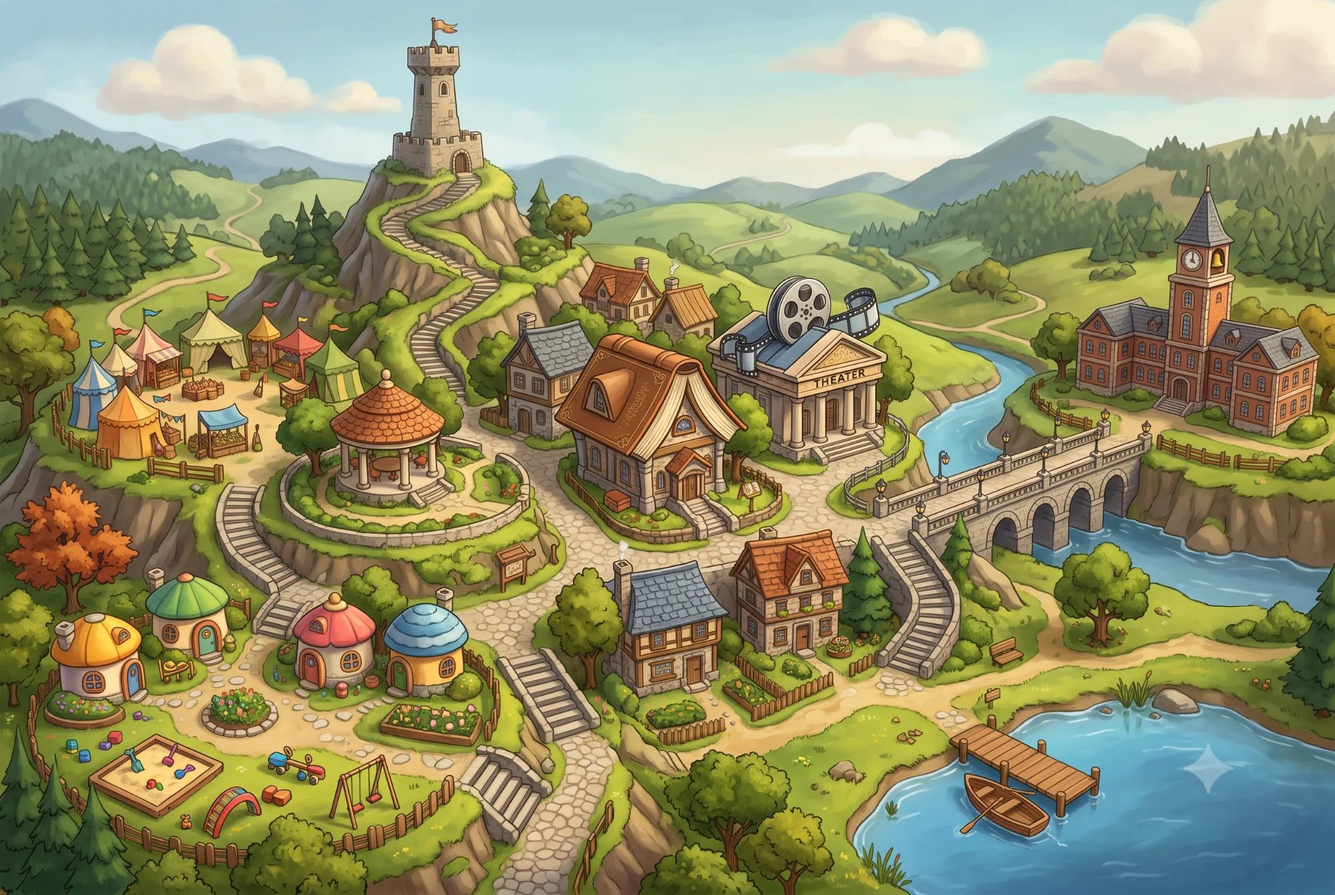
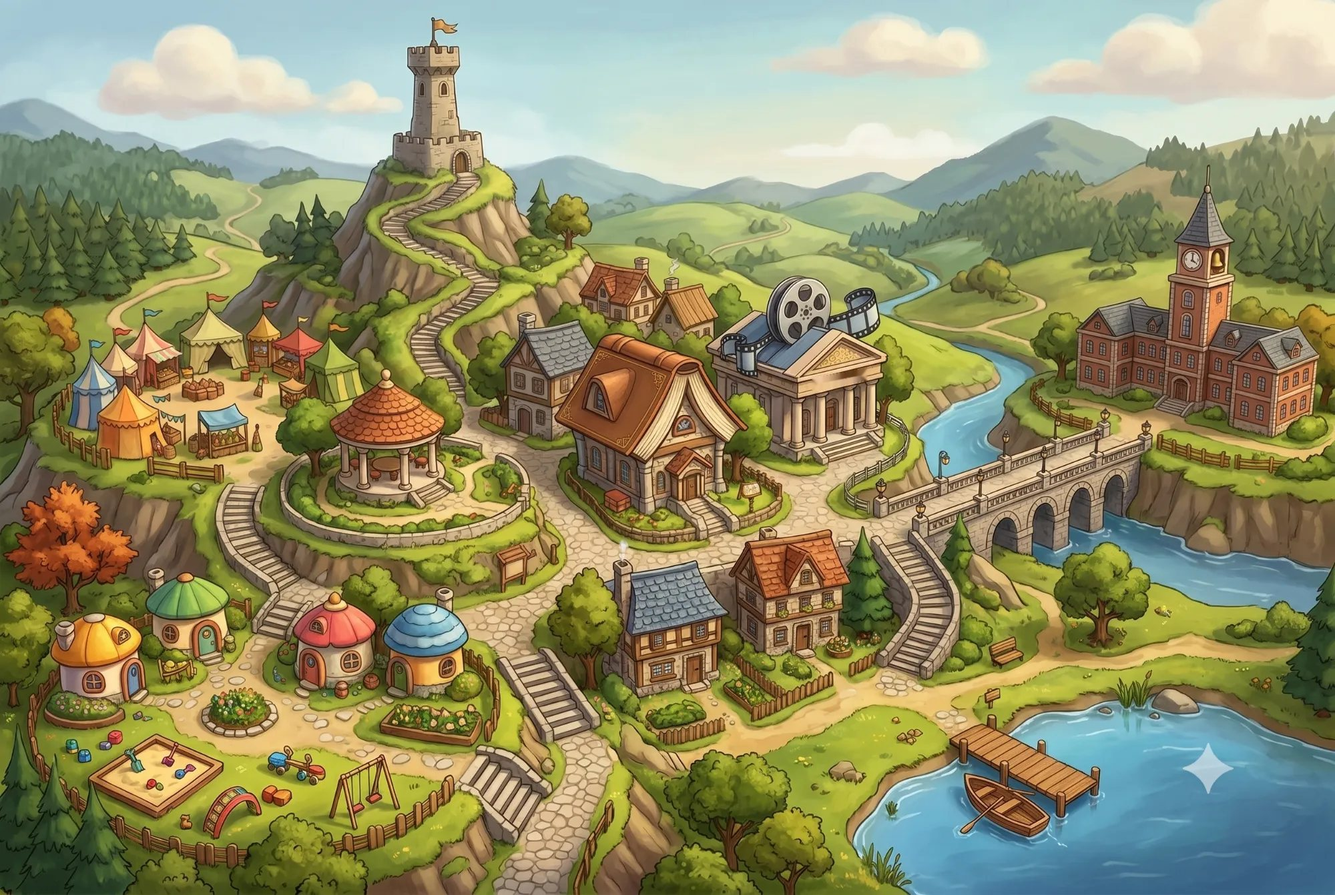
마을 지도: 극장 정면 글자 제거판으로 교체(원장 수정본 + 잔여 흔적 인페인팅)
Claude-Session: https://claude.ai/code/session_01T6HCktzZTCy63PeQAnPr61

diff --git a/number_magic/마을지도-작화지시서.md b/number_magic/마을지도-작화지시서.md
@@ -3,7 +3,7 @@
 > 수신: 배경 아트 담당(GPT 등 이미지 생성) · 발신: Numbers of Magic 제작팀
 > 산출물: **지도 그림 1장**(PNG, **1536×1024** — GPT·Gemini가 바로 뽑는 최대 가로형). 아래 요구를 그대로 지켜 주세요.
 > 목표: 원래 마을 그림(첨부 `map-v0.jpg`)을 **가운데 두고 사방으로 넓힌** 한 장.
-> 진행: 2026-09-02 1차(GPT, town-map-v1) → 2차(Gemini, town-map-v2 2000×1342)로 교체해 `assets/map.jpg`에 설치함. 2차는 §7의 4가지를 다 채웠고, 극장 정면 "THEATER" 글자만 남았다(앱 이름표가 덮음).
+> 진행: 2026-09-02 1차(GPT, town-map-v1) → 2차(Gemini, town-map-v2 2000×1342)로 교체해 `assets/map.jpg`에 설치함. 2차는 §7의 4가지를 다 채웠다. 극장 정면 "THEATER" 글자는 원장이 지운 판을 받아 남은 흔적을 제작팀이 인페인팅으로 마저 지움(현재 지도에 글자 없음).
 
 ---
 
